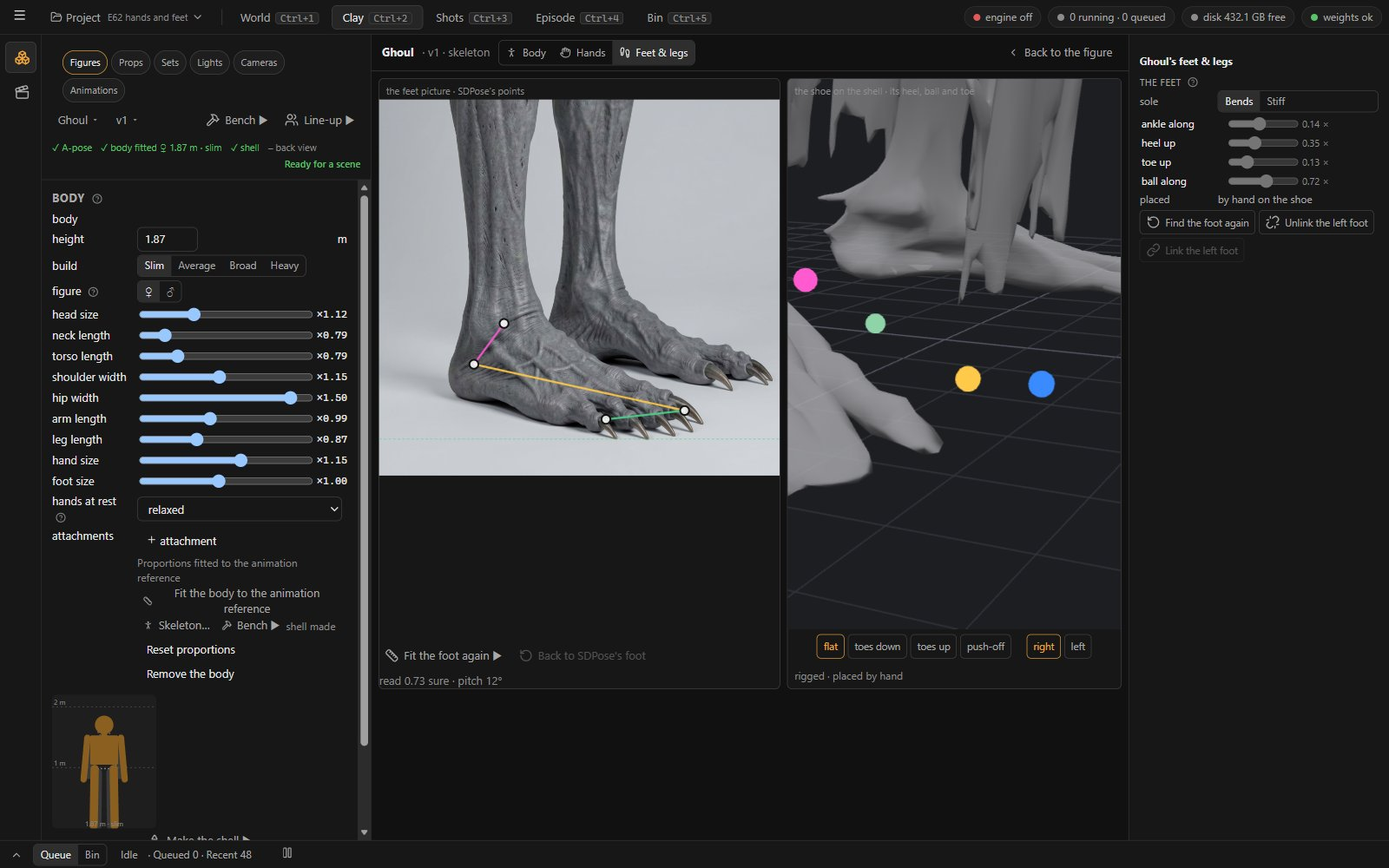
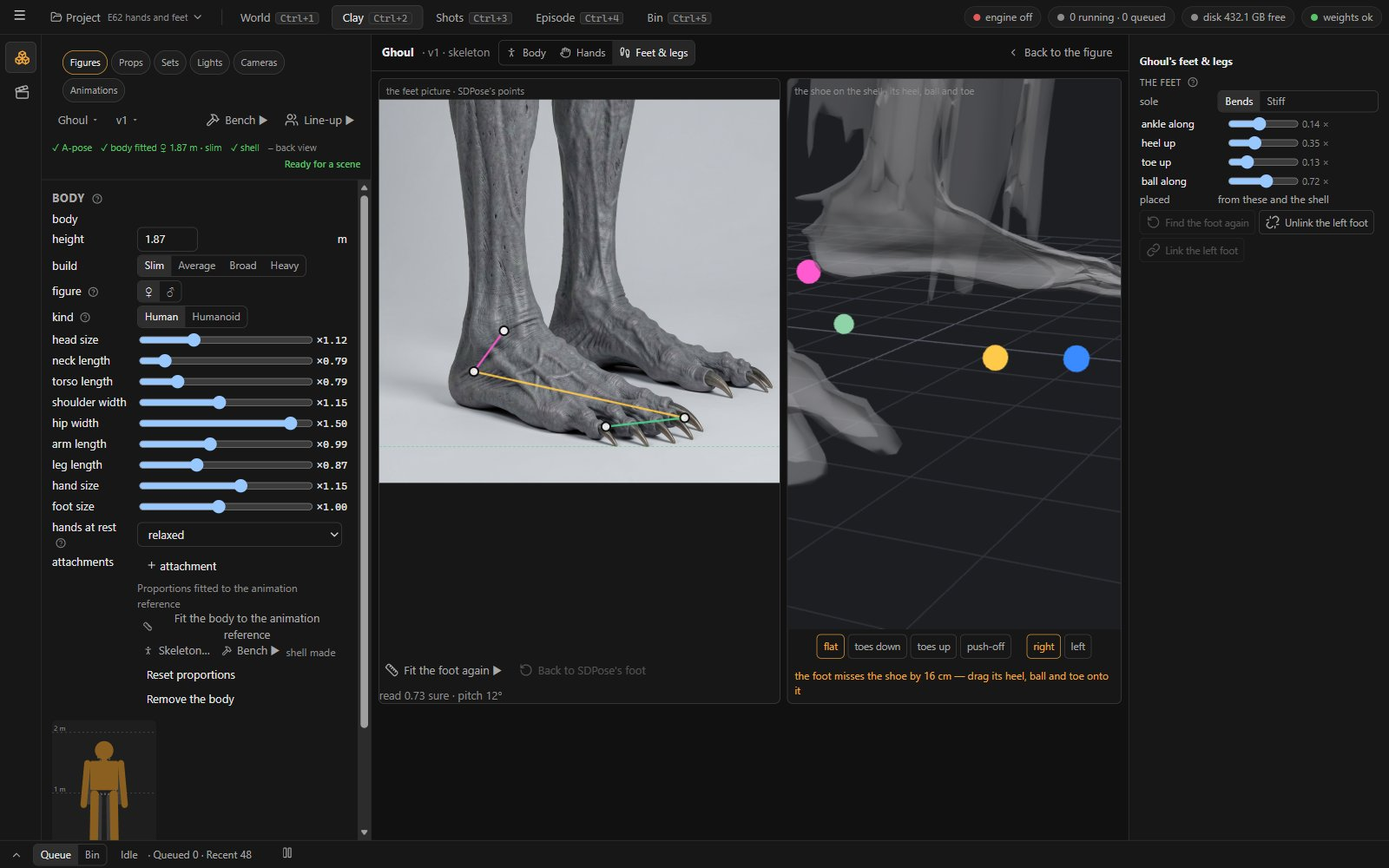
RG4 (journal 2026-11-05 10:19): the Humanoid switch — D187 and D188's waves built — Body.humanoid; the fields widened for it (arms to 1.8, legs from 0.4, the head to 3), fit_body keeping a human's fit within HUMAN_LIMITS (the old bounds); the client's rangeOf (the sliders' ranges in one place, the L

diff --git a/frontend/src/suites/stage/SkeletonBench.tsx b/frontend/src/suites/stage/SkeletonBench.tsx
@@ -20,7 +20,7 @@ import { CommandButton } from '../../frame/CommandButton'
 import { Help } from '../../frame/Help'
 import { askConfirm, useSession } from '../../store/session'
 import { shellBlocked, shellFromArmsDown, useStory, versionPointsOfShell } from '../story/storyStore'
-import { DEFAULT_BODY, ENDS, placedCount, type Body, type End } from './body'
+import { DEFAULT_BODY, ENDS, placedCount, rangeOf, type Body, type End } from './body'
 import { JOINTS, mannequin, POSE_NAMES, POSES, type Joint, type Mannequin } from './builders'
 import { HAND_PRESETS, makeDetailed } from './detailed'
 import type { HandShapes } from './clayHand'
@@ -28,6 +28,7 @@ import { bindProxy, insideShell, setShellPoints, stanceOf } from './proxy'
 import { COCO, cropOf, defaultOf, disagreements, dragFactor, lengthCm, outside, pictureMap, ROWS, seen, setLocked, unlock, type Points, type RowKey, type XY } from './skeleton'
 import { handFromPicture, readPicture, setUi, ui, useUi } from './benchState'
 import { FeetPanes, FeetParts, HandParts, HandsPanes } from './RigBench'
+import { HumanoidSwitch } from './HumanoidSwitch'
 import { showMenu } from '../../frame/ContextMenu'
 import { cellOf } from '../story/coverage'
 
@@ -474,8 +475,7 @@ function GuidePane({ body, stance, refId, points, shell }: { body: Body; stance:
 }
 
 // ------------------------------------------------------------------ the parts (the Inspector)
-const BOUNDS: Partial<Record<keyof Body, [number, number]>> = { head: [0.5, 2.5], neck: [0.5, 3], torso: [0.6, 1.6], shoulders: [0.6, 1.8], hips: [0.6, 1.6], elbow: [0.35, 0.65],
-  arms: [0.6, 1.6], knee: [0.35, 0.65], legs: [0.5, 1.6], hands: [0.5, 1.6], feet: [0.5, 1.6] }
+
 
 export function SkeletonParts() {
   const p = useStory((s) => s.profile())
@@ -512,12 +512,13 @@ export function SkeletonParts() {
         <span>height</span><span className="mono">{b.height_m.toFixed(2)} m</span>
         <span>figure</span><span className="segmented" role="group" aria-label="figure">{(['female', 'male'] as const).map((k) => <button key={k} type="button" disabled={!open} className={b.figure === k ? 'active' : ''} onClick={() => set({ figure: k })}
           aria-label={`${k} figure`} title={`A ${k === 'female' ? 'woman' : 'man'}'s figure: the mannequin the skeleton is drawn on`}>{k === 'female' ? '♀' : '♂'}</button>)}</span>
+        <span>kind</span><HumanoidSwitch b={b} open={open} set={set} />
       </div>
       {groups.map((g) => (
         <div key={g} className="skel-group">
           <div className="grp">{g}</div>
           {ROWS.filter((r) => r.group === g).map((r) => {
-            const val = Number(b[r.factor] ?? defaultOf(r.factor)), [lo, hi] = BOUNDS[r.factor] ?? [0.5, 1.6], locked = (b.locks ?? []).includes(r.factor as string)
+            const val = Number(b[r.factor] ?? defaultOf(r.factor)), [lo, hi] = rangeOf(b, r.factor as string), locked = (b.locks ?? []).includes(r.factor as string)
             const pct = (x: number) => `${((x - lo) / (hi - lo)) * 100}%`
             return (
               <div key={r.key} className={`skel-row${outside(b, r) ? ' amber' : ''}${u.row === r.key ? ' sel' : ''}`} data-row={r.key} onClick={() => setUi({ row: r.key })}
@@ -564,7 +565,8 @@ export function SkeletonParts() {
             </div>)
         }) : <div className="hint">none yet</div>}
       </div>
-      {first ? <div className="skel-status warn">{first.label} {Number(b[first.factor]) > first.band[1] ? 'long' : 'short'} for an adult — check its points</div> : <div className="skel-status">every part in an adult's range</div>}
+      {b.humanoid ? <div className="skel-status" data-status="humanoid">a humanoid — no adult's ranges</div>
+        : first ? <div className="skel-status warn">{first.label} {Number(b[first.factor]) > first.band[1] ? 'long' : 'short'} for an adult — check its points</div> : <div className="skel-status">every part in an adult's range</div>}
       {others.length > 0 && open && <div className="kv"><span>copy from</span>
         <select aria-label="copy the skeleton from" value="" onChange={(e) => { const o = others.find((x) => x.id === e.target.value); const ob = o?.versions.find((y) => y.id === o.current)?.body
           if (ob) set({ ...Object.fromEntries((['head', 'neck', 'torso', 'shoulders', 'hips', 'arms', 'elbow', 'legs', 'knee', 'hands', 'feet', 'head_forward', 'shoulder_drop', 'feet_out'] as const).map((k) => [k, (ob as Body)[k]])), hand_rest: { ...b.hand_rest, ...(ob as Body).hand_rest } } as Partial<Body>) }}>

diff --git a/frontend/e2e/smoke.spec.ts b/frontend/e2e/smoke.spec.ts
@@ -2905,6 +2905,12 @@ test("the rigging screen's hands and feet (RG3, D187 R4, D188 F4): a hand pictur
   await page.screenshot({ path: 'node_modules/.e2e/rg3-feet.png' })
   await bench.locator('[data-testid="rig-parts"] button', { hasText: 'Body' }).click()
   await expect(bench.locator('.skel-ref circle.white').first()).toBeVisible({ timeout: 15_000 })        // the body's view as it was
+  // RG4 (D187 R6): the Humanoid switch — the parts range wider, no adult's warning
+  await page.locator('.skel-parts [data-testid="humanoid"] button', { hasText: 'humanoid' }).click()
+  await expect.poll(async () => ((await ver()).body as { humanoid?: boolean } | null)?.humanoid ?? false, { timeout: 10_000 }).toBe(true)
+  await expect(page.locator('.skel-parts .skel-status')).toContainText('a humanoid')
+  await expect(page.locator('.skel-parts .skel-row[data-row="upper_arm"] input[type=range]')).toBeVisible()
+  expect(await page.locator('.skel-parts input[aria-label="leg length"]').getAttribute('min')).toBe('0.4')
 })
 
 test("the skeleton changed (proto01_UIcast CS3, D136 U19): a final's character layer stamps its body per frame; Cast's skeleton changing under it shows on the layer, nothing done by itself — Re-render draws the guide again and performs it; Apply from the playhead keys the skeleton (the frames before it held) and performs again (Shots, B2a)", async ({ page }) => {
@@ -4383,7 +4389,7 @@ test('shells only (D183, C2c): a scene\'s Figures ＋ lists characters and no du
   await expect(header.locator('button[aria-label^="Try it on"]')).toHaveAttribute('aria-label', `Try it on · ${who.name}`)
   type Anim = { name: string; try_on: string | null }
   await expect.poll(async () => (await api<{ items: Anim[] }>('GET', '/stages/animations')).items.find((x) => x.name === `Bow ${tag}`)?.try_on ?? null, { timeout: 10_000 }).toBe(who.id)
-  // the skeleton bench's 3D pane: the right elbow dragged a little is placed by hand; Reset puts it back — on an A-pose (the bench needs
+  // the skeleton bench's 3D pane: the left elbow (the nearer one: the side view looks from the figure's left) dragged a little is placed by hand; Reset puts it back — on an A-pose (the bench needs
   // the picture), its body fitted by itself (D161) and its shell queued by the fit (D183) and landed on the fake engine
   const img = (await api<{ items: AssetLite[] }>('GET', '/assets?folder=all&kind=image&sort=created_desc&limit=1')).items[0].id
   await api('PUT', `/story/profiles/${who.id}/versions/v1/anim-ref`, { side: 'front', asset_id: img })
@@ -4396,13 +4402,13 @@ test('shells only (D183, C2c): a scene\'s Figures ＋ lists characters and no du
   await expect(bench).toBeVisible()
   await bench.locator('.tools button', { hasText: /^side$/ }).click()
   type Hook = { __loom2SkeletonBench?: { screen: (key: string) => [number, number] | null } }
-  await expect.poll(() => page.evaluate(() => (window as unknown as Hook).__loom2SkeletonBench?.screen('r_elbow') ?? null), { timeout: 15_000 }).not.toBeNull()
-  const at = (await page.evaluate(() => (window as unknown as Hook).__loom2SkeletonBench!.screen('r_elbow')))!
+  await expect.poll(() => page.evaluate(() => (window as unknown as Hook).__loom2SkeletonBench?.screen('l_elbow') ?? null), { timeout: 15_000 }).not.toBeNull()
+  const at = (await page.evaluate(() => (window as unknown as Hook).__loom2SkeletonBench!.screen('l_elbow')))!
   await page.mouse.move(at[0], at[1]); await page.mouse.down(); await page.mouse.move(at[0] + 24, at[1] + 6, { steps: 8 }); await page.mouse.up()
   type Prof = { versions: { body: { joint_offsets?: Record<string, number[]> } | null }[] }
   const offsets = async () => (await api<Prof>('GET', `/story/profiles/${who.id}`)).versions[0].body?.joint_offsets ?? {}
-  await expect.poll(async () => Object.keys(await offsets()), { timeout: 15_000 }).toEqual(['r_elbow'])
-  expect(Math.hypot(...(await offsets()).r_elbow)).toBeGreaterThan(0.005)
+  await expect.poll(async () => Object.keys(await offsets()), { timeout: 15_000 }).toEqual(['l_elbow'])
+  expect(Math.hypot(...(await offsets()).l_elbow)).toBeGreaterThan(0.005)
   await expect(page.locator('[data-testid="placed-joints"]')).toContainText('1 placed by hand')
   await page.locator('[data-testid="placed-joints"] button', { hasText: 'Reset' }).click()
   await expect.poll(async () => Object.keys(await offsets()), { timeout: 15_000 }).toEqual([])

diff --git a/frontend/src/suites/story/CastBody.tsx b/frontend/src/suites/story/CastBody.tsx
@@ -5,14 +5,15 @@
 import { Plus, X } from 'lucide-react'
 import { Help } from '../../frame/Help'
 import type { Profile, ProfileVersion } from '../../api/types'
-import { BUILD_WIDTH, DEFAULT_BODY, ELBOW_AT, KNEE_AT, bodyDims, type Body } from '../stage/body'
+import { BUILD_WIDTH, DEFAULT_BODY, ELBOW_AT, KNEE_AT, bodyDims, rangeOf, type Body } from '../stage/body'
+import { HumanoidSwitch } from '../stage/HumanoidSwitch'
 import { CommandButton } from '../../frame/CommandButton'
 import { shellBlocked, shellFromArmsDown, useStory } from './storyStore'
 import { runCommand } from '../../frame/commands'
 
 const PROPORTIONS: [keyof Pick<Body, 'head' | 'neck' | 'torso' | 'shoulders' | 'hips' | 'arms' | 'legs' | 'hands' | 'feet'>, string, number, number][] = [
   ['head', 'head size', 0.5, 2.5], ['neck', 'neck length', 0.5, 3.0], ['torso', 'torso length', 0.6, 1.6], ['shoulders', 'shoulder width', 0.6, 1.8],
-  ['hips', 'hip width', 0.6, 1.6], ['arms', 'arm length', 0.6, 1.6], ['legs', 'leg length', 0.5, 1.6], ['hands', 'hand size', 0.5, 1.6], ['feet', 'foot size', 0.5, 1.6]]
+  ['hips', 'hip width', 0.6, 1.6], ['arms', 'arm length', 0.6, 1.6], ['legs', 'leg length', 0.5, 1.6], ['hands', 'hand size', 0.5, 1.6], ['feet', 'foot size', 0.5, 1.6]]   // the adult's; rangeOf widens a humanoid's (RG4)
 const HAND_RESTS: Body['hand_rest']['preset'][] = ['relaxed', 'open', 'fist', 'point', 'grip', 'pinch']
 const BUILDS: Body['build'][] = ['slim', 'average', 'broad', 'heavy']
 const KINDS: Body['attachments'][number]['kind'][] = ['tail', 'horns', 'ears', 'wings', 'antennae', 'hat', 'backpack', 'other']
@@ -60,10 +61,11 @@ export function CastBody({ p, v }: { p: Profile; v: ProfileVersion }) {
                 aria-label={`${k} figure`} title={`A ${k === 'female' ? 'woman' : 'man'}'s figure: the mannequin the body is drawn on and the proportions its fit starts from (D168 seeds it from the sheet's words)`}>{k === 'female' ? '♀' : '♂'}</button>)}
             </span>
           </div>
+          <div className="body-row"><span>kind <Help text={"A humanoid, not a human — a ghoul, a dwarf, a troll: its parts range wider (arms to ×1.8, legs from ×0.4, the head to ×3), its fit may go there, and nothing warns of an adult's range."} /></span><HumanoidSwitch b={b} open={open} set={set} /></div>{/* RG4 */}
           {PROPORTIONS.map(([k, label, lo, hi]) => (
             <div key={k} className="body-row">
               <span>{label}</span>
-              <input type="range" aria-label={label} min={lo} max={hi} step={0.05} value={b[k]} disabled={!open} onChange={(e) => set({ [k]: Number(e.target.value) } as Partial<Body>)} />
+              <input type="range" aria-label={label} min={rangeOf(b, k)[0] ?? lo} max={rangeOf(b, k)[1] ?? hi} step={0.05} value={b[k]} disabled={!open} onChange={(e) => set({ [k]: Number(e.target.value) } as Partial<Body>)} />
               <span className="mono">×{(b[k] ?? 1).toFixed(2)}</span>
             </div>
           ))}

diff --git a/frontend/src/suites/stage/body.ts b/frontend/src/suites/stage/body.ts
@@ -12,6 +12,7 @@ export interface Body {
   hand_rest: { preset: 'open' | 'relaxed' | 'fist' | 'point' | 'grip' | 'pinch'; curl: number; spread: number; thumb: number }   // S2 (CS2: spread, thumb)
   head_forward: number; shoulder_drop: number; feet_out: number             // CS2: the head carried forward (°), the shoulders' drop (×), the feet out (°)
   locks: string[]                                                          // CS2: the factors *Fit again* leaves as the author set them
+  humanoid?: boolean                                                       // RG4 (D187 R6): a humanoid, not a human — wider ranges, no adult warnings
   attachments: { kind: 'tail' | 'horns' | 'ears' | 'wings' | 'antennae' | 'hat' | 'backpack' | 'other'; joint: string | null; size: number; note: string }[]
   hand_shape?: components['schemas']['Hands-Output'] | null                       // RG1 (D187): its own hands, read from its hand picture (hands.py); null = the mannequin's
   foot_shape?: components['schemas']['Feet-Output'] | null                        // RG1 (D188): its own feet, read from its feet picture (or the A-pose side view)
@@ -29,6 +30,12 @@ export const DEFAULT_BODY: Body = { height_m: 1.75, build: 'average', head: 1, t
   hips: 1, elbow: ELBOW_AT, knee: KNEE_AT, figure: 'female', hand_rest: { preset: 'relaxed', curl: 1, spread: 0, thumb: 0 }, head_forward: 0, shoulder_drop: 1,
   feet_out: 0, locks: [], attachments: [], joint_offsets: {} }
 export const BUILD_WIDTH: Record<Body['build'], number> = { slim: 0.85, average: 1, broad: 1.15, heavy: 1.3 }
+/** A factor's range on the sliders (body.py's fields): an adult's — and RG4 (D187 R6) a humanoid's, wider (arms to ×1.8, legs from ×0.4, the
+ *  head to ×3; body.py HUMAN_LIMITS keeps a human's fit within the adult's). */
+const RANGE: Record<string, [number, number]> = { head: [0.5, 2.5], neck: [0.5, 3], torso: [0.6, 1.6], shoulders: [0.6, 1.8], hips: [0.6, 1.6], elbow: [0.35, 0.65],
+  arms: [0.6, 1.6], knee: [0.35, 0.65], legs: [0.5, 1.6], hands: [0.5, 1.6], feet: [0.5, 1.6] }
+const HUMANOID: Record<string, [number, number]> = { head: [0.5, 3], arms: [0.6, 1.8], legs: [0.4, 1.6] }
+export const rangeOf = (b: { humanoid?: boolean } | null | undefined, k: string): [number, number] => (b?.humanoid ? HUMANOID[k] : undefined) ?? RANGE[k] ?? [0.5, 1.6]
 export type Limbs = { upper_arm: number; forearm: number; thigh: number; shin: number }
 
 /** The body's dimensions in the dummy's own units (before the height scale): limb lengths, the standing hip height, the head top. */

diff --git a/frontend/src/suites/stage/skeleton.test.ts b/frontend/src/suites/stage/skeleton.test.ts
@@ -1,6 +1,6 @@
 // CS2: the skeleton bench's arithmetic — the picture ↔ figure mapping, the red ticks, the rows in centimetres, a blue point dragged.
 import { describe, expect, it } from 'vitest'
-import { DEFAULT_BODY } from './body'
+import { DEFAULT_BODY, rangeOf } from './body'
 import { cropOf, disagreements, dragFactor, lengthCm, outside, pictureMap, ROWS, setLocked, unlock, type XY } from './skeleton'
 
 // a figure on its front plane (metres, y up) and the same figure in a picture (pixels, y down, 400 px per metre, the feet at y 700)
@@ -45,5 +45,16 @@ describe('the skeleton bench (CS2)', () => {
     const locked = setLocked(DEFAULT_BODY, 'elbow', 0.56)
     expect(locked.locks).toEqual(['elbow']); expect(setLocked(locked, 'elbow', 0.5).locks).toEqual(['elbow'])
     expect(unlock(locked, 'elbow').locks).toEqual([])
+  })
+})
+
+describe('RG4 (D187 R6): the Humanoid switch', () => {
+  it('a humanoid ranges wider and no part of it is outside an adult\'s range', () => {
+    expect(rangeOf(DEFAULT_BODY, 'arms')).toEqual([0.6, 1.6]); expect(rangeOf({ ...DEFAULT_BODY, humanoid: true }, 'arms')).toEqual([0.6, 1.8])
+    expect(rangeOf({ humanoid: true }, 'legs')).toEqual([0.4, 1.6]); expect(rangeOf({ humanoid: true }, 'head')).toEqual([0.5, 3])
+    expect(rangeOf({ humanoid: true }, 'torso')).toEqual([0.6, 1.6])                       // the rest as an adult's
+    const neck = ROWS.find((r) => r.key === 'neck')!
+    expect(outside({ ...DEFAULT_BODY, neck: 1.54 }, neck)).toBe(true)
+    expect(outside({ ...DEFAULT_BODY, neck: 1.54, humanoid: true }, neck)).toBe(false)
   })
 })

diff --git a/frontend/src/suites/stage/HumanoidSwitch.tsx b/frontend/src/suites/stage/HumanoidSwitch.tsx
@@ -1,0 +1,14 @@
+// RG4 (D187 R6): the Humanoid switch — shared by the Library's body section (CastBody) and the skeleton bench's parts; no stage code here.
+import type { Body } from './body'
+
+/** RG4 (D187 R6): a human or a humanoid — a humanoid's parts range wider (arms to ×1.8, legs from ×0.4, the head to ×3), its fit may go there,
+ *  and nothing warns of an adult's range. */
+export function HumanoidSwitch({ b, open, set }: { b: Body; open: boolean; set: (patch: Partial<Body>) => void }) {
+  return (
+    <span className="segmented" role="group" aria-label="human or humanoid" data-testid="humanoid">
+      <button type="button" disabled={!open} className={!b.humanoid ? 'active' : ''} aria-pressed={!b.humanoid} onClick={() => set({ humanoid: false })} title="A human: an adult's ranges, a part outside one turns amber">human</button>
+      <button type="button" disabled={!open} className={b.humanoid ? 'active' : ''} aria-pressed={!!b.humanoid} onClick={() => set({ humanoid: true })}
+        title="A humanoid, not a human (a ghoul, a dwarf, a troll): the parts range wider — arms to ×1.8, legs from ×0.4, the head to ×3 — the fit may go there, and nothing warns of an adult's range">humanoid</button>
+    </span>
+  )
+}

diff --git a/frontend/src/suites/stage/skeleton.ts b/frontend/src/suites/stage/skeleton.ts
@@ -82,7 +82,7 @@ export function lengthCm(b: Body, key: RowKey): number {
   return Math.round(m * s * 1000) / 10
 }
 
-export const outside = (b: Body, r: Row) => { const v = Number(b[r.factor] ?? 1); return v < r.band[0] || v > r.band[1] }
+export const outside = (b: Body, r: Row) => { if (b.humanoid) return false; const v = Number(b[r.factor] ?? 1); return v < r.band[0] || v > r.band[1] }   // RG4: a humanoid has no adult's range
 
 // ---- a blue point dragged ---------------------------------------------------------------------------------------------------------------
 /** The factor a figure marker's drag sets, and its new value: `fig` the markers' (x, y) on the front plane, `to` where marker `k` was

diff --git a/frontend/src/api/schema.d.ts b/frontend/src/api/schema.d.ts
@@ -6287,6 +6287,11 @@ export interface components {
              * @default 1
              */
             hips?: number;
+            /**
+             * Humanoid
+             * @default false
+             */
+            humanoid?: boolean;
             /** Joint Offsets */
             joint_offsets?: {
                 [key: string]: number[];
@@ -6392,6 +6397,11 @@ export interface components {
              * @default 1
              */
             hips: number;
+            /**
+             * Humanoid
+             * @default false
+             */
+            humanoid: boolean;
             /** Joint Offsets */
             joint_offsets: {
                 [key: string]: number[];

diff --git a/frontend/src/suites/story/story.css b/frontend/src/suites/story/story.css
@@ -475,4 +475,5 @@
 .skel-motions .sep { width: 10px; }
 .skel-parts .rig-finger { border-top: 1px solid var(--line2); padding-top: 2px; }
 .skel-parts .skel-row.sub > span:first-child { padding-left: 10px; color: var(--fg3); }
-.skel-panes[data-part] { min-height: min(74vh, 720px); grid-template-columns: 1.2fr 1fr; }   /* RG3: the hands and feet panes hold no picture of a set size: they take the bench's height */
+.skel-bench .skel-panes { min-height: min(74vh, 720px); }   /* RG3: the panes hold no picture of a set size and Clay's Library sets the bench no height (the body's had collapsed to its labels since C0) */
+.skel-panes[data-part] { grid-template-columns: 1.2fr 1fr; }

diff --git a/orchestrator/loom2/body.py b/orchestrator/loom2/body.py
@@ -50,13 +50,13 @@ class Body(BaseModel):
     height_m: float = Field(1.75, ge=0.3, le=4.0)
     build: BodyBuild = "average"
     figure: FigureKind = "female"                  # U18: the Detailed mannequin the character's figures are (♀ / ♂)
-    head: float = Field(1.0, ge=0.5, le=2.5)
+    head: float = Field(1.0, ge=0.5, le=3.0)       # RG4 (D187 R6): to 3 for a humanoid (a human's fit stays within 2.5: HUMAN_LIMITS)
     torso: float = Field(1.0, ge=0.6, le=1.6)
     shoulders: float = Field(1.0, ge=0.6, le=1.8)
     hips: float = Field(1.0, ge=0.6, le=1.6)       # S7: the hips' width (no longer the fit's fixed anchor)
-    arms: float = Field(1.0, ge=0.6, le=1.6)
+    arms: float = Field(1.0, ge=0.6, le=1.8)       # RG4: to 1.8 for a humanoid (a ghoul's reach); a human's fit within 1.6
     elbow: float = Field(ELBOW_AT, ge=0.35, le=0.65)   # S6: the elbow's place, the upper arm's share of the arm
-    legs: float = Field(1.0, ge=0.5, le=1.6)
+    legs: float = Field(1.0, ge=0.4, le=1.6)       # RG4: from 0.4 for a humanoid (a dwarf's legs); a human's fit from 0.5
     knee: float = Field(KNEE_AT, ge=0.35, le=0.65)     # S6: the knee's place, the thigh's share of the leg
     neck: float = Field(1.0, ge=0.5, le=3.0)       # CA1b (D104): the neck's length (the head above the shoulders); ×1 an adult's (S3)
     hands: float = Field(1.0, ge=0.5, le=1.6)      # CA1b: the Detailed figure's hands (the pose pass draws them, D101)
@@ -70,6 +70,8 @@ class Body(BaseModel):
     joint_offsets: dict[str, list[float]] = Field(default_factory=dict)   # D183 (C2c): a joint placed on the shell by hand — metres from where
     #                                                                       the fitted body puts it, in its parent's frame (builders.ts applies it;
     #                                                                       the bench writes it); the fit leaves them, *Reset* clears them
+    humanoid: bool = False                         # RG4 (D187 R6): a humanoid, not a human — the parts' ranges widened (arms to 1.8, legs
+    #                                                from 0.4, the head to 3) for the fit and the bench, no adult-range warnings
     hand_shape: Hands | None = None                # RG1 (D187): the character's own hands, read from its hand picture (hands.py); None = the
     #                                                mannequin's; the size stays `hands`, fitted from the A-pose's palm
     foot_shape: Feet | None = None                 # RG1 (D188): its own feet, read from its feet picture (or the A-pose side view); None = the mannequin's
@@ -149,6 +151,7 @@ A_POSE_DEG = 22.0             # the reference's stance (frontend stage/turnTest.
 FITTED = ("head_w", "head_neck", "torso", "shoulders", "hips", "leg", "arm", "palm", "elbow_at", "knee_at", "toes")
 # D140 measured the whole hand (wrist → the middle fingertip) too and did not keep it: SDPose reads a real straight hand at 1.43–1.76 palms
 # against the Detailed hand's 1.85–1.91, so the fit's hands came out 12–24 % smaller than from the palm on the same pictures (journal).
+HUMAN_LIMITS = {"head": (0.5, 2.5), "arms": (0.6, 1.6), "legs": (0.5, 1.6)}   # RG4: a human's fit within these; a humanoid's to the fields'
 PULL = 0.02                   # S7: the weight of each factor's pull toward its adult value, against log-ratio residuals (≈ 2 % of a measure)
 DEFAULTS = {"elbow": ELBOW_AT, "knee": KNEE_AT}
 
@@ -286,6 +289,8 @@ def fit_body(measured: dict[str, float], body: Body | None = None, locks: tuple[
     needs = {"head": "head_w", "hands": "palm", "elbow": "elbow_at", "knee": "knee_at", "feet": "toes"}
     keys = ("head", "neck", "torso", "shoulders", "hips", "legs", "arms", "elbow", "knee", "hands", "feet")
     lim = {k: (Body.model_fields[k].metadata[0].ge, Body.model_fields[k].metadata[1].le) for k in keys}
+    if not b.humanoid:                                                     # RG4: a human's fit keeps the ranges it had (the fields widened for humanoids)
+        lim.update(HUMAN_LIMITS)
     unknown = [k for k in keys if k not in locks and (k not in needs or needs[k] in measured) and (k != "feet" or TOES_PER_LEG)]
     meas = [k for k in FITTED if k in measured and k in dummy_ratios(b)]
     home = np.log([DEFAULTS.get(k, 1.0) for k in unknown])

diff --git a/orchestrator/tests/test_rig_rg3.py b/orchestrator/tests/test_rig_rg3.py
@@ -97,3 +97,17 @@ def test_the_refit_route(tmp_path: Path):
         assert cl.post(f"/story/profiles/{p['id']}/versions/v1/parts/feet/refit", json={"points": {"foot": []}}).status_code == 422
         assert cl.post(f"/story/profiles/{p['id']}/versions/v9/parts/hand/refit", json={"points": {"hand": pts}}).status_code == 404
         assert cl.post(f"/story/profiles/prf_none/versions/v1/parts/hand/refit", json={"points": {"hand": pts}}).status_code == 404
+
+
+def test_a_humanoid_fits_past_an_adult_s_ranges_a_human_does_not():
+    """RG4 (D187 R6): the Humanoid switch — a ghoul's long arms and a dwarf's short legs fitted as the picture has them; a human's fit keeps
+    the ranges it had (the fields are widened for humanoids only)."""
+    from loom2.body import Body, dummy_ratios, fit_body
+    measured = dummy_ratios(Body(arms=1.75, legs=0.45, humanoid=True))
+    ghoul, _ = fit_body(measured, Body(humanoid=True))
+    human, _ = fit_body(measured, Body())
+    assert ghoul.arms > 1.65 and ghoul.legs < 0.5 and ghoul.humanoid
+    assert human.arms <= 1.6 and human.legs >= 0.5 and not human.humanoid
+    assert Body(arms=1.8, legs=0.4, head=3.0).arms == 1.8                    # the fields hold a humanoid's
+    with pytest.raises(ValueError):
+        Body(arms=1.9)

diff --git a/.docs/proto01/90-journal.md b/.docs/proto01/90-journal.md
@@ -16547,3 +16547,9 @@ Checks: offline 835, Vitest 680 + 3 skipped (feet.test 5 new), typecheck, build,
 proto01_rig 00 §13. The skeleton bench's strip gains Body · Hands · Feet & legs (`stage/RigBench.tsx`, `stage/rigEdit.ts`, the commands `cast.rig.*`). **Hands:** the hand picture's 21 points dragged, *Fit the hand again* (`POST …/parts/hand/refit`, `StoryStore.refit_part`: on the CPU, the count, claws and widths kept, SDPose's points kept as `sdpose`), the clay hand in 3D with the guide's points and the presets; the Inspector's count, claws, each finger's length / width / claw, Unlink / Link, *Start from a human hand*. **Feet & legs:** the feet picture's points dragged and refitted (`fit_foot(floor_at=)`), the shoe on the shell see-through with its ankle, heel, ball and toe — dragged, they place the foot by hand (`FootShape.place`, metres from the ankle; `bindProxy` rigs a placed foot without the reach check, its side-to-side axis the placed foot's own); the state in a few words; the shoe bent to try it; the Inspector's stiff sole, numbers, *Find the foot again*, Unlink / Link, *Start from a plain foot*. Found and fixed: a finger read pointing back (the fake engine's hand) passed the fit and failed the body's save — the angle now any way, a base clamped, a read the body cannot keep said on the version.
 
 Checked in the app on the ghoul (`_e62`): the views as the sheets show; its shoe, missing by 16 cm, dragged into place → "rigged · placed by hand" (the test placement cleared after). Checks: offline 839 (test_rig_rg3 4 new), Vitest 685 + 3 skipped (rigEdit.test 6 new), typecheck, build, lint (61 warnings, as before), e2e: the new scenario (the hand read on the fake engine, the drag and refit, the count, Unlink, a plain foot made stiff) 1 / 1 alone — the full run with RG4; settings audit 326 / 0, model literals 0, agents 0; the route snapshot gains the refit route. Next: RG4 (the Humanoid switch).
+
+## 2026-11-05 10:19 — RG4: the Humanoid switch — D187 and D188's waves built
+
+proto01_rig 00 §14. `Body.humanoid` (default false); the fields widened for it (arms ≤ 1.8, legs ≥ 0.4, head ≤ 3), `fit_body` keeping a human's fit within `HUMAN_LIMITS` (the old bounds); the client's `rangeOf` (one place for the sliders' ranges, the Library's body section and the skeleton bench), `outside` silent for a humanoid, the status "a humanoid — no adult's ranges"; the switch (`HumanoidSwitch.tsx`) beside the figure in both. With it RG1–RG4 are built.
+
+Checks: offline 840 (test_rig_rg3 + 1: a humanoid's fit past an adult's ranges, a human's not), Vitest 686 + 3 skipped (skeleton.test + 1), typecheck, build, lint (61 warnings, as before), e2e 92 / 92 in the full run (the rigging scenario with the switch), then — the bench's panes given a height (Clay's Library sets the bench none: the body view had collapsed to its labels since C0) — its four scenarios again 4 / 4, the shells one dragging the elbow nearer the side view's camera (the left; the taller pane put the right behind it), settings audit 326 / 0; the API contract regenerated (Body.humanoid, the widened bounds). Next: the author's look at the rigging screen (Clay's Library › a character › Skeleton… › Hands / Feet & legs) — the man's and the ghoul's feet are theirs to place.
